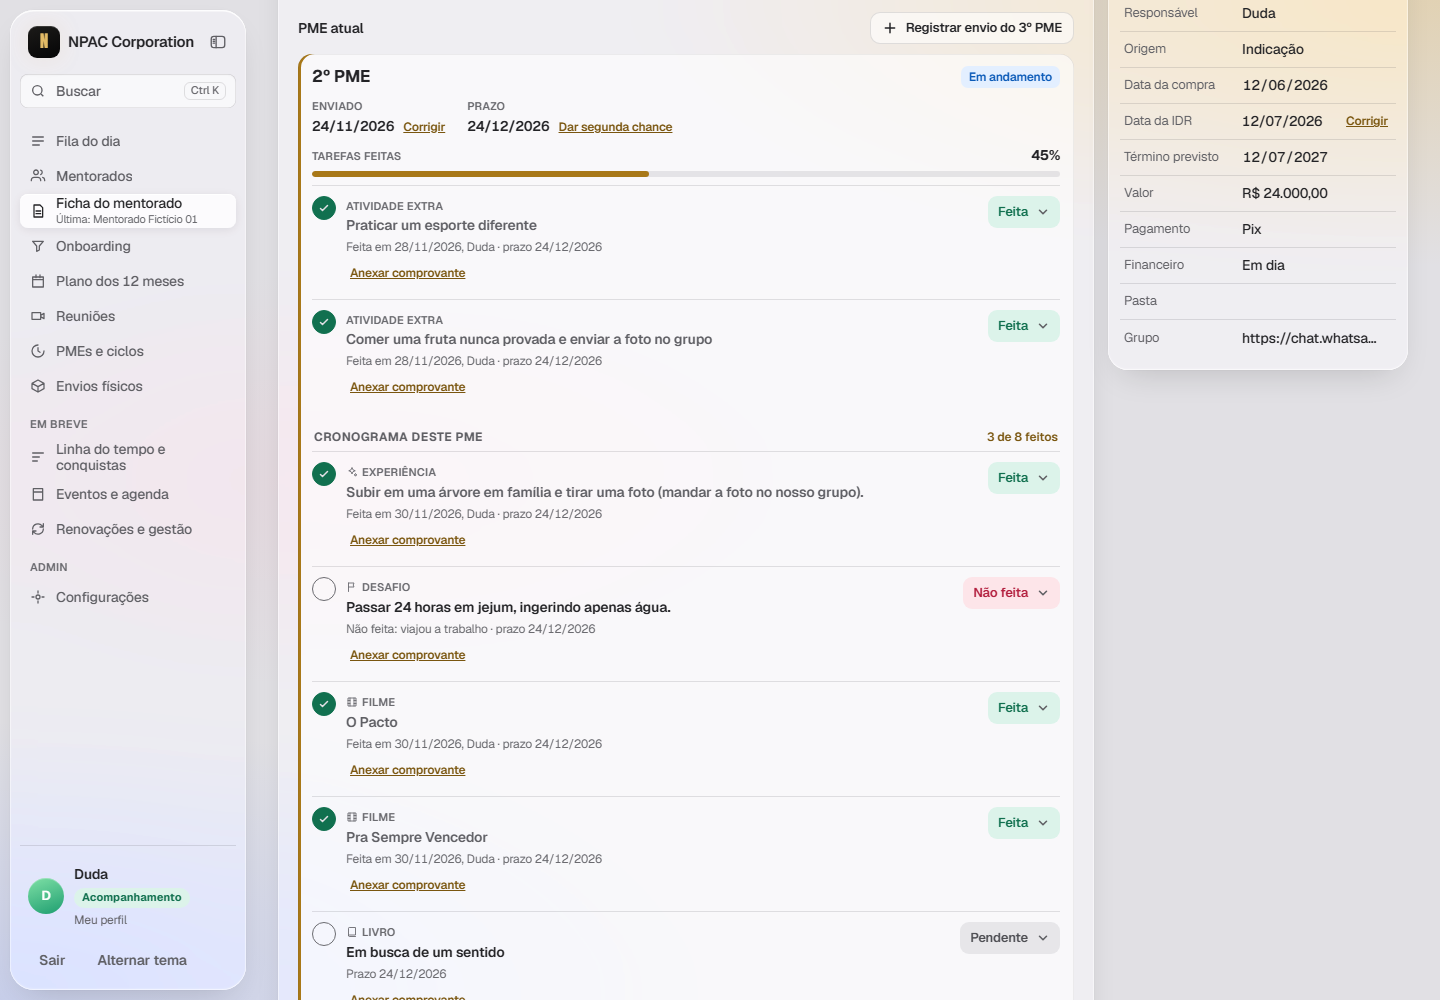
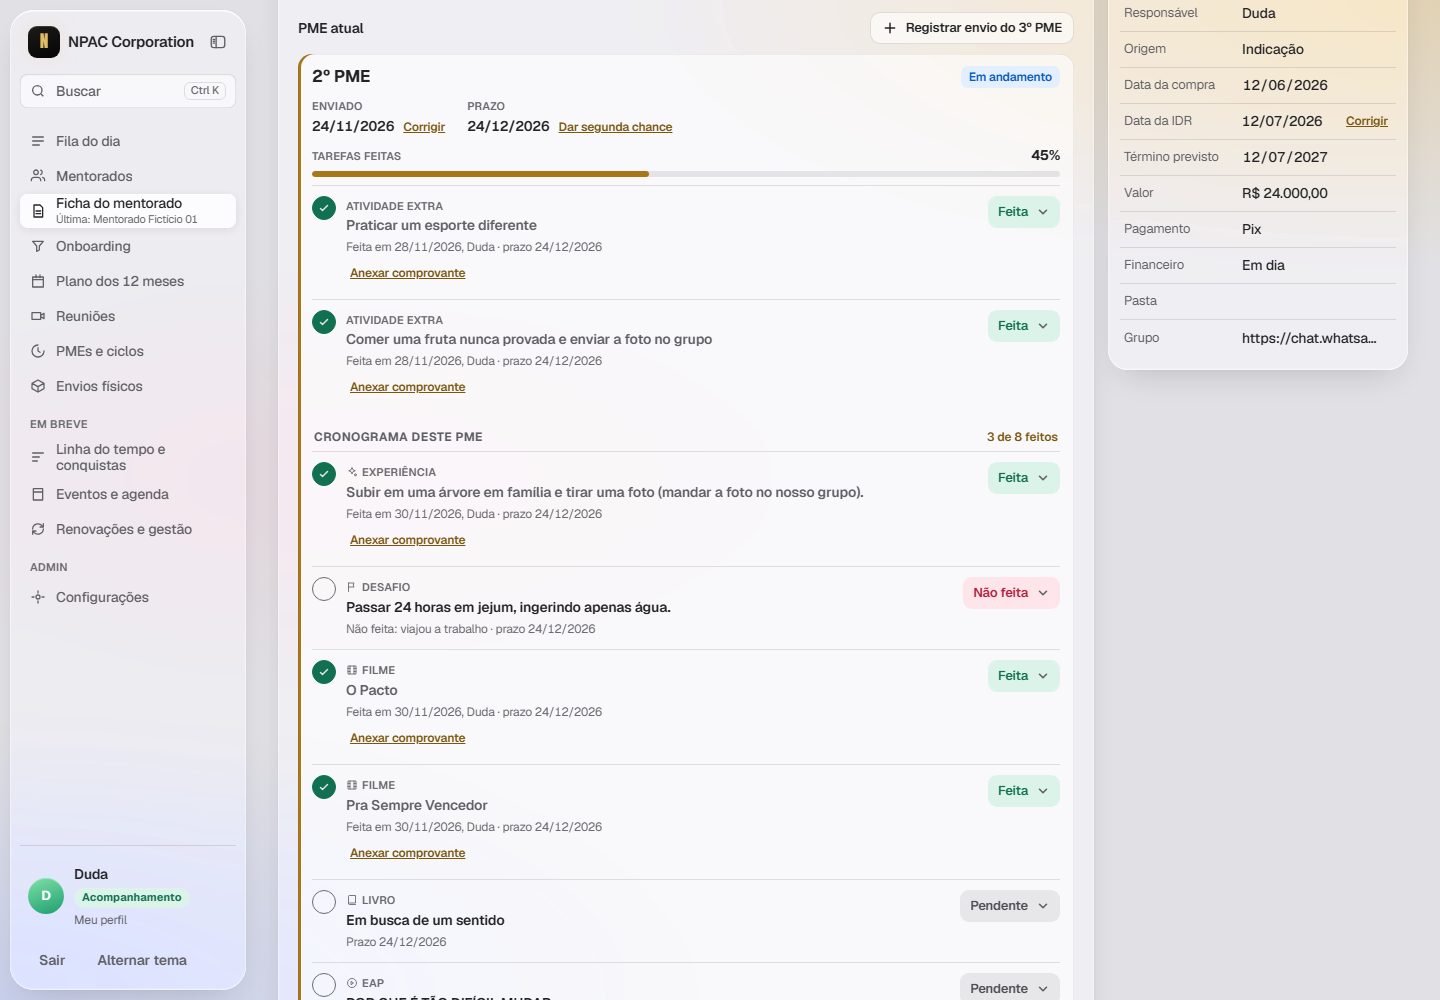
docs(NPAC-60): prototipo do cronograma revisado

diff --git a/docs/acompanhamento/prototipo/cronograma/prototipo.js b/docs/acompanhamento/prototipo/cronograma/prototipo.js
@@ -40,9 +40,9 @@
   .ac .cr-grupo-h{display:flex;align-items:center;justify-content:space-between;gap:8px;font-size:12px;font-weight:700;text-transform:uppercase;letter-spacing:.04em;color:var(--ink2)}
   .ac .cr-grupo-h .cr-ok{color:var(--gold-text);text-transform:none;letter-spacing:0;font-weight:600}
   .ac .cr-grupo-h .cr-falta{color:var(--ink3);text-transform:none;letter-spacing:0;font-weight:600}
-  .ac .cr-item{display:flex;align-items:flex-start;gap:10px;padding:10px 12px;border:1px solid var(--line);border-radius:12px;background:var(--gl2, rgba(255,255,255,.5));font-size:14px;line-height:1.4}
+  .ac .cr-item{display:flex;align-items:center;gap:10px;padding:10px 12px;border:1px solid var(--line);border-radius:12px;background:var(--gl2, rgba(255,255,255,.5));font-size:14px;line-height:1.4}
   .ac .cr-item .cr-tx{flex:1;min-width:0}
-  .ac .cr-item .cr-tx small{display:block;color:var(--ink3);font-size:12px;margin-top:2px}
+  .ac .cr-item .cr-tx small{display:block;color:var(--ink2);font-size:12px;margin-top:2px}
   .ac .cr-item .cr-acts{display:flex;gap:4px;flex:none}
   .ac .cr-ib{display:inline-flex;align-items:center;justify-content:center;gap:4px;height:30px;min-width:30px;padding:0 8px;border-radius:9px;border:1px solid var(--line);background:transparent;color:var(--ink2);font-size:12.5px;font-weight:600;cursor:pointer}
   .ac .cr-add{display:inline-flex;align-items:center;gap:6px;height:34px;padding:0 12px;border-radius:10px;border:1px dashed var(--line);background:transparent;color:var(--ink2);font-size:13px;font-weight:600;justify-self:start;cursor:pointer}
@@ -51,7 +51,9 @@
   .ac .cr-busca .q{display:flex;align-items:center;gap:8px;height:36px;padding:0 10px;border-radius:9px;background:rgba(120,120,128,.1);color:var(--ink3);font-size:14px}
   .ac .cr-op{display:flex;justify-content:space-between;gap:10px;padding:8px 10px;border-radius:9px;font-size:13.5px}
   .ac .cr-op:hover{background:rgba(120,120,128,.08)}
-  .ac .cr-op.off{color:var(--ink3)}
+  .ac .cr-op.off{color:var(--ink2)}
+  .ac .cr-op.off small{color:var(--ink2)}
+  .ac .cr-op.novo{border:0;background:transparent;font:inherit;font-weight:600;color:var(--ink);text-align:left;display:flex;align-items:center;gap:6px;justify-content:flex-start;border-top:1px solid var(--line);border-radius:0;margin-top:4px;padding-top:10px;cursor:pointer}
   .ac .cr-op.off small{white-space:nowrap}
   .ac .cr-op small{color:var(--ink3);font-size:12px}
   .ac .cr-st{display:inline-flex;align-items:center;height:24px;padding:0 9px;border-radius:8px;font-size:12px;font-weight:600;white-space:nowrap;background:rgba(120,120,128,.14);color:var(--tag-neutro)}
@@ -73,7 +75,9 @@
   .ac .cr-chips{display:flex;flex-wrap:wrap;gap:6px}
   .ac .cr-chip{display:inline-flex;align-items:center;gap:6px;max-width:100%;padding:5px 9px;border-radius:9px;background:rgba(120,120,128,.1);font-size:13px;color:var(--ink)}
   .ac .cr-chip .cr-i{color:var(--ink3);width:13px;height:13px}
-  .ac .cr-chip span{overflow:hidden;text-overflow:ellipsis;white-space:nowrap;max-width:320px}
+  .ac .cr-chip{text-align:left;line-height:1.35}
+  .ac .cr-chip.nao{background:var(--tag-bad-bg);box-shadow:inset 0 0 0 1px var(--tag-bad)}
+  .ac .cr-chip.nao em{font-style:normal;font-weight:700;color:var(--tag-bad);white-space:nowrap}
   .ac .cr-seg{display:flex;flex-wrap:wrap;gap:6px}
   .ac .cr-seg button{display:inline-flex;align-items:center;gap:6px;height:34px;padding:0 12px;border-radius:10px;border:1px solid var(--line);background:transparent;font-size:13px;font-weight:600;color:var(--ink2)}
   .ac .cr-seg button.on{background:var(--ink);color:var(--bg, #fff);border-color:var(--ink)}
@@ -96,13 +100,25 @@
   .ac .cr-arq b{font-weight:600}
   .ac .cr-nota{font-size:13px;color:var(--ink2);margin:0}
   .ac .cr-cta{display:flex;flex-wrap:wrap;align-items:center;justify-content:space-between;gap:10px;padding:12px;border:1px dashed var(--line);border-radius:12px;font-size:13.5px;color:var(--ink2)}
+  .ac .cr-tile.cr-acao{box-shadow:inset 0 0 0 1.5px var(--ink)}
+  .ac .cr-tile.cr-acao .rev{font-size:12.5px;font-weight:700;color:var(--ink);text-decoration:underline}
+  .cr-dlg .cr-rodape{position:sticky;bottom:-24px;margin:4px -24px -24px;padding:12px 24px 16px;background:var(--gl-solid);border-top:1px solid var(--line);justify-content:space-between!important;align-items:center;z-index:2}
+  .cr-dlg .cr-rodape .cr-cont{font-size:13px;color:var(--ink2);margin-right:auto}
+  @media (max-width:640px),(pointer:coarse){.ac .cr-ib,.ac .cr-add,.ac .cr-seg button,.ac .cr-op.novo{min-height:44px}.ac .cr-ib{min-width:44px}}
   .ac-dialogo.cr-dlg{width:min(680px,calc(100vw - 24px));max-height:calc(100dvh - 32px)}
   .ac-dialogo.cr-dlg form{max-height:calc(100dvh - 32px);overflow:auto}
   @media (max-width:640px){
     .ac .cr-col{grid-template-columns:1fr}
     .ac .cr-col .dica{grid-column:1}
-    .ac .cr-item .cr-acts .rot{display:none}
-    .ac .cr-chip span{max-width:240px}
+    .ac .cr-item{flex-wrap:wrap}
+    .ac .cr-item .cr-acts{width:100%;justify-content:flex-end}
+    .ac .cr-col select{font-size:16px}
+    .ac .cr-op.off{flex-wrap:wrap}
+    .ac .cr-op.off small{width:100%}
+  }
+  @media (max-width:640px){
+    .cr-dlg .cr-rodape .cr-cont{width:100%}
+    .cr-dlg .cr-rodape .btn{flex:1}
     .ac .cr-bi{grid-template-columns:22px 1fr}
     .ac .cr-bi .cr-acts{grid-column:2}
     .ac .cr-linha{display:grid;grid-template-columns:1fr auto;gap:6px 10px;align-items:center}
@@ -155,20 +171,23 @@
             <div class="cr-op"><span>Fazer 100 agachamentos em um único dia.</span></div>
             <div class="cr-op"><span>Durante 7 dias, fazer pelo menos um elogio sincero por dia para alguém.</span></div>
             <div class="cr-op off"><span>Durante 3 dias colocar despertador no celular de uma em uma hora…</span><small>Já recebeu no 1º PME</small></div>
-            <div class="cr-op off"><span>Dormir no chão durante uma noite.</span><small>Já recebeu no RDV</small></div></div>`
+            <div class="cr-op off"><span>Dormir no chão durante uma noite.</span><small>Já recebeu no RDV</small></div>
+            <button type="button" class="cr-op novo">${svg(MAIS, 'cr-s')}Escrever um desafio só para esta pessoa</button></div>`
           : '';
       return `<div class="cr-grupo"><div class="cr-grupo-h"><span style="display:flex;align-items:center;gap:6px">${svg(ICON[b])}${PLURAL[b]}</span><span class="cr-ok">${SUG[b].length} de ${MODELO[b]}</span></div>${itens}${busca}${
-        b === 'EAP' ? `<button type="button" class="cr-add">${svg(MAIS, 'cr-s')}Adicionar EAP</button>` : ''
+        trocar && b === 'DESAFIO' ? '' : `<button type="button" class="cr-add">${svg(MAIS, 'cr-s')}Adicionar ${b === 'EAP' ? 'EAP' : NOME[b].toLowerCase()}</button>`
       }</div>`;
     }).join('');
     const sec = document.createElement('div');
     sec.className = 'cr-sec';
     sec.innerHTML = `<div class="cr-sec-h"><h3>Cronograma deste PME</h3><span class="cr-modelo">Modelo da planilha: 3 EAP · 1 experiência · 1 desafio · 2 filmes · 1 livro</span></div>
-      <p class="cr-nota">Sugerimos os primeiros itens que Mentorado Fictício 01 ainda não recebeu, nem no RDV. Troque o que quiser.</p>
-      ${blocos}
-      <button type="button" class="cr-add">${svg(MAIS, 'cr-s')}Item só desta pessoa</button>`;
+      <p class="cr-nota">Sugerimos os primeiros itens que Mentorado Fictício 01 ainda não recebeu, nem no RDV. Troque o que quiser; em "Adicionar" dá para escrever um item só para esta pessoa.</p>
+      ${blocos}`;
     const aviso = form.querySelector('.pme-aviso');
-    (aviso || form.querySelector('.flex.flex-wrap.justify-end')).before(sec);
+    const rodape = form.querySelector('.flex.flex-wrap.justify-end');
+    (aviso || rodape).before(sec);
+    rodape.classList.add('cr-rodape');
+    rodape.insertAdjacentHTML('afterbegin', '<span class="cr-cont">8 itens do cronograma</span>');
     if (trocar) {
       const g = [...sec.querySelectorAll('.cr-grupo')][1];
       g.scrollIntoView({ block: 'start' });
@@ -212,6 +231,7 @@
       [...sel.options].forEach((o, i) => (o.selected = i === (st === 'feita' ? 1 : st === 'nao_feita' ? 3 : 0)));
       meta.textContent =
         st === 'feita' ? 'Feita em 30/11/2026, Duda · prazo 24/12/2026' : st === 'nao_feita' ? 'Não feita: viajou a trabalho · prazo 24/12/2026' : 'Prazo 24/12/2026';
+      if (st !== 'feita') li.querySelector('.pme-comp')?.remove();
       enc.before(li);
     }
     const ciclo = document.querySelector('.pme-ciclo.atual');
@@ -252,7 +272,7 @@
     const chip = (b, t) => `<span class="cr-chip">${svg(ICON[b])}<span>${t}</span></span>`;
     const tiles = ORDEM.map(
       (b, i) =>
-        `<div class="cr-tile"><span>${svg(ICON[b])}${PLURAL[b]}</span><b>${[14, 14, 28, 14, 42][i]}</b><small>recebidos · faltam ${[34, 89, 7, 13, 36][i]}</small></div>`,
+        `<div class="cr-tile"><span>${svg(ICON[b])}${PLURAL[b]}</span><b>${[14, 14, 28, 14, 42][i]}</b><small>recebidos</small><small>${[34, 89, 7, 13, 36][i]} novos para ele</small></div>`,
     ).join('');
     painel.innerHTML = `
       <div class="cr-sec-h" style="margin-bottom:4px"><h2 style="font-size:17px;font-weight:700;margin:0">Cronograma</h2><span class="cr-modelo">Nada se repete, nem da inscrição anterior</span></div>
@@ -270,8 +290,7 @@
           ${linha('EAP', 'O QUE TODA PESSOA PRECISA APRENDER PARA CRESCER https://www.youtube.com/watch?v=x', '', 'Pendente')}
         </div></div>
         <div class="cr-pme"><div class="cr-pme-h"><b>1º PME</b><span>Antes do sistema · da planilha</span></div>
-          <div class="cr-chips">${chip('EXPERIENCIA', 'Fazer um quadro do sonhos com recortes de imagens em uma cartolina')}${chip('DESAFIO', 'Durante 3 dias colocar despertador no celular de uma em uma hora')}${chip('FILME', 'Um sonho possível')}${chip('FILME', 'Coach Carter')}${chip('LIVRO', 'Comece pelo Porquê')}${chip('EAP', 'É MELHOR SER CLT DO QUE EMPREENDER')}${chip('EAP', 'VENDER É MAIS IMPORTANTE QUE APRENDER A LER')}${chip('EAP', 'FÓRMULA DA RIQUEZA FINANCEIRA')}</div>
-          <span class="cr-st nao" style="justify-self:start">1 não fez (planilha): o quadro dos sonhos</span>
+          <div class="cr-chips"><span class="cr-chip nao">${svg(ICON.EXPERIENCIA)}<span>Fazer um quadro do sonhos com recortes de imagens em uma cartolina</span><em>Não fez</em></span>${chip('DESAFIO', 'Durante 3 dias colocar despertador no celular de uma em uma hora')}${chip('FILME', 'Um sonho possível')}${chip('FILME', 'Coach Carter')}${chip('LIVRO', 'Comece pelo Porquê')}${chip('EAP', 'É MELHOR SER CLT DO QUE EMPREENDER')}${chip('EAP', 'VENDER É MAIS IMPORTANTE QUE APRENDER A LER')}${chip('EAP', 'FÓRMULA DA RIQUEZA FINANCEIRA')}</div>
         </div>
         <div class="cr-pme"><div class="cr-pme-h"><b>No RDV</b><span>Outra inscrição · concluída em 10/2026 · 12 PMEs</span></div>
           <div class="cr-chips">${chip('EXPERIENCIA', 'A partir das 19h, apagar as luzes e deixá-las desligadas')}${chip('DESAFIO', 'Dormir no chão durante uma noite')}${chip('FILME', 'Até o Último Homem')}${chip('LIVRO', 'O Homem Mais Rico da Babilônia')}${chip('EAP', 'COLOQUE SEU TRABALHO ACIMA DO SEU RELACIONAMENTO')}<span class="cr-chip" style="background:transparent;border:1px dashed var(--line)"><span>e mais 91 itens</span></span></div>
@@ -302,14 +321,14 @@
     const itens = [
       ['Durante 3 dias colocar despertador no celular de uma em uma hora com a escrita: isso que estou prestes a fazer está me aproximando ou distanciando dos meus sonhos?', 'Enviado 43 vezes', false],
       ['Passar 24 horas em jejum, ingerindo apenas água. (Ao iniciar e ao finalizar o jejum, envie uma foto com o horário no grupo.)<small style="font-style:italic">“Grande parte do sofrimento vem da dificuldade em lidar com pequenos desconfortos…”</small>', 'Enviado 10 vezes', false],
-      ['Fazer 100 agachamentos em um único dia. (Grave um pequeno vídeo realizando parte dos agachamentos ou envie uma foto ao concluir.)', 'Enviado 6 vezes', false],
-      ['Guardar o máximo de dinheiro que conseguir', 'Enviado 8 vezes · escondido: não aparece nas sugestões', true],
-      ['Dormir no chão durante uma noite. (Envie uma foto do local onde dormiu.)', 'Enviado 5 vezes', false],
-      ['Durante 7 dias, beber pelo menos 3 litros de água por dia. (Envie uma foto da garrafa utilizada ou um registro diário da quantidade consumida.)', 'Nunca enviado', false],
+      ['Fazer 100 agachamentos em um único dia. (Grave um pequeno vídeo realizando parte dos agachamentos ou envie uma foto ao concluir.)<small style="font-style:italic">“Seu corpo é capaz de muito mais do que você imagina…”</small>', 'Enviado 6 vezes', false],
+      ['Guardar o máximo de dinheiro que conseguir', 'Enviado 8 vezes · não aparece nas sugestões', true],
+      ['Dormir no chão durante uma noite. (Envie uma foto do local onde dormiu.)<small style="font-style:italic">“Quando escolhemos abrir mão do conforto por um curto período, passamos a valorizá-lo muito mais…”</small>', 'Enviado 5 vezes', false],
+      ['Durante 7 dias, beber pelo menos 3 litros de água por dia. (Envie uma foto da garrafa utilizada ou um registro diário da quantidade consumida.)<small style="font-style:italic">“Disciplina também é cuidar do próprio corpo…”</small>', 'Nunca enviado', false],
       ['Durante 30 dias, manter sua cama arrumada antes de sair do quarto. (Envie uma foto da cama arrumada no primeiro e no último dia do desafio.)', 'Nunca enviado', false],
     ]
       .map(
-        ([t, m, esc], i) => `<div class="cr-bi ${esc ? 'esc' : ''}"><span class="n">${i + 1}</span><div class="cr-tx">${t}<small>${m}</small></div><div class="cr-acts"><button type="button" class="cr-ib">Editar</button><button type="button" class="cr-ib">${esc ? 'Mostrar' : 'Esconder'}</button></div></div>`,
+        ([t, m, esc], i) => `<div class="cr-bi ${esc ? 'esc' : ''}"><span class="n">${i + 1}</span><div class="cr-tx">${t}<small>${esc ? '<span class="cr-st" style="height:20px;margin-right:6px">Escondido</span>' : ''}${m}</small></div><div class="cr-acts"><button type="button" class="cr-ib">Editar</button><button type="button" class="cr-ib">${esc ? 'Mostrar' : 'Esconder'}</button></div></div>`,
       )
       .join('');
     corpo.innerHTML = `<section class="card sec">
@@ -345,9 +364,9 @@
       <div class="cr-resumo" style="margin-bottom:16px">
         <div class="cr-tile"><span>Itens do banco</span><b>293</b><small>5 blocos · 3 repetidos juntados</small></div>
         <div class="cr-tile"><span>Colunas ligadas</span><b>196</b><small>de 249 · 19 sem marcação</small></div>
-        <div class="cr-tile"><span>Para você decidir</span><b>34</b><small>25 em dúvida · 9 sem ficha</small></div>
+        <div class="cr-tile cr-acao"><span>Para você decidir</span><b>34</b><small>25 em dúvida · 9 sem ficha</small><span class="rev">Revisar ↓</span></div>
         <div class="cr-tile"><span>Viram tarefa do PME aberto</span><b>312</b><small>o mês atual de cada um</small></div>
-        <div class="cr-tile"><span>Histórico</span><b>7.640</b><small>+ 88 planejados · 113 já tinha · 6 não fez</small></div>
+        <div class="cr-tile"><span>De PMEs antigos</span><b>7.640</b><small>+ 88 marcados para PMEs que ainda não saíram · 113 já tinha antes · 6 não fez</small></div>
       </div>
       <div class="cr-sec" style="margin-bottom:6px"><div class="cr-sec-h"><h3>Em dúvida (25)</h3><span class="cr-modelo">Escolha a ficha de cada coluna. Sem escolha, a coluna fica de fora.</span></div>
         <div>

diff --git a/docs/acompanhamento/prototipo/cronograma/README.md b/docs/acompanhamento/prototipo/cronograma/README.md
@@ -24,3 +24,10 @@ Refazer (dev no ar na porta 3000, na raiz do repositório):
 ```sh
 node docs/acompanhamento/prototipo/cronograma/capturar.mjs [envio|envio-trocar|card|aba|banco|importacao]
 ```
+
+## Revisão de design (24/11)
+
+Depois da crítica: rodapé fixo com "Enviar" e a contagem de itens na janela; "Adicionar" em cada bloco (com
+"escrever um … só para esta pessoa" dentro da busca); comprovante só em quem marcou Feita, no card; etiqueta "Não fez"
+no próprio item da planilha e texto inteiro (sem cortar) na aba; "Escondido" como etiqueta no banco; "Para você
+decidir" destacado na importação; toque de 44 px no celular e cinza médio nas linhas apagadas (contraste).
